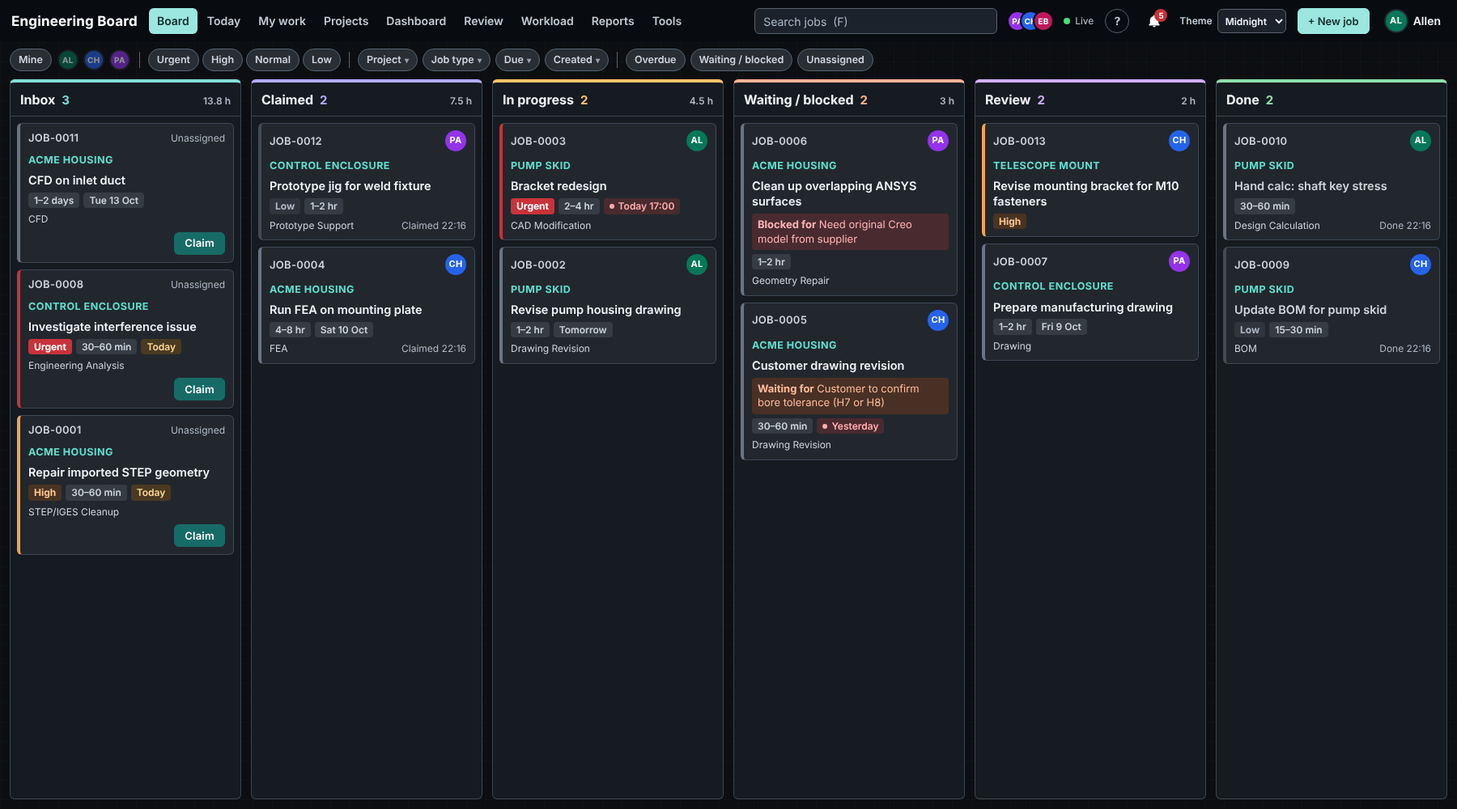
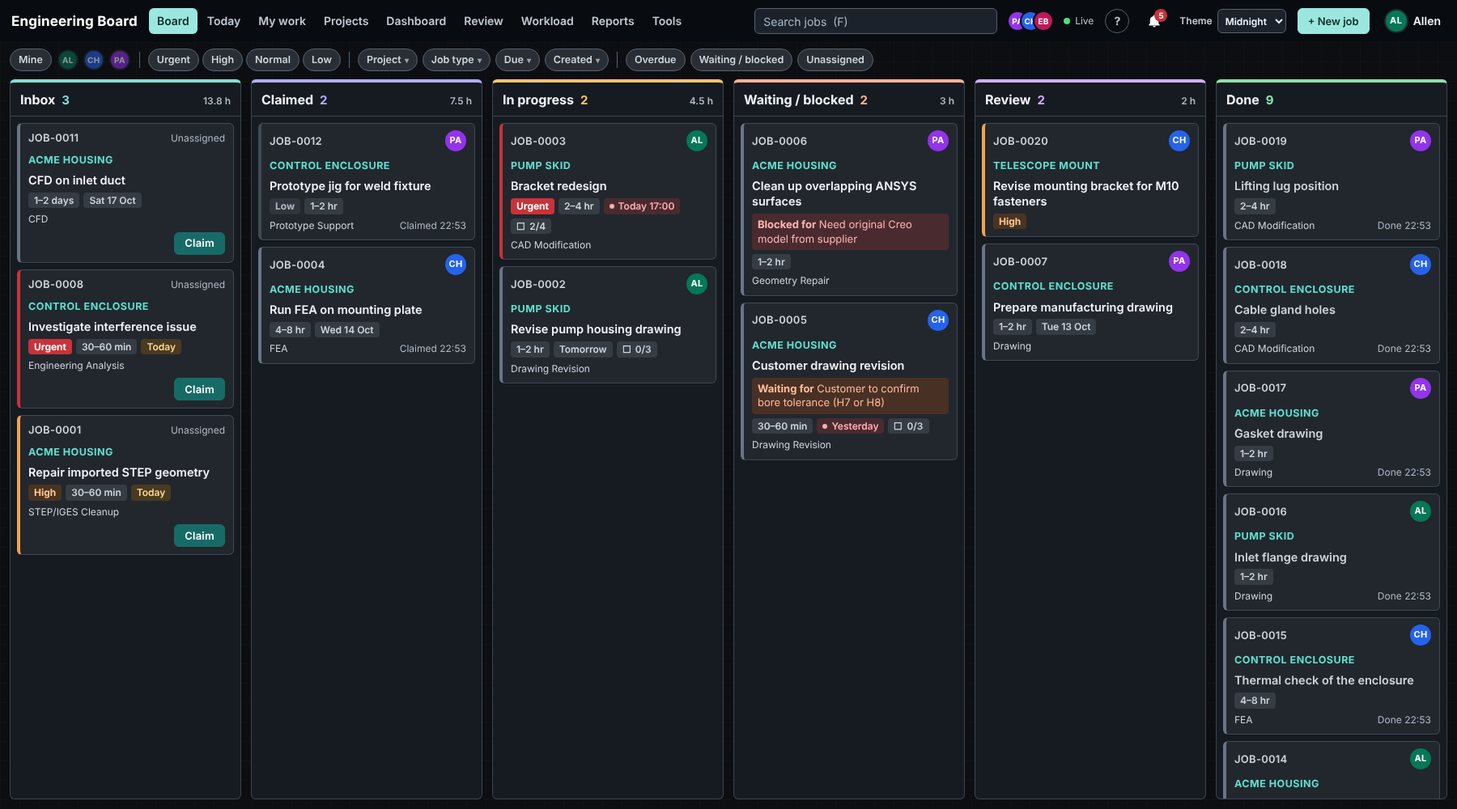
Release 1.7.0: version, README and screenshots
Bump to 1.7.0, re-shoot every README screenshot and add pictures of Health,
release checklists, the drawing register, estimates, the weekly summary,
procurement and the PDF stamp; README text, HANDOFF notes, claim released.

Claude-Session: https://claude.ai/code/session_01ETdD34XJ1VLpe689S7wBTy

diff --git a/server/src/app.ts b/server/src/app.ts
@@ -129,7 +129,7 @@ import { jobsNeedingSync, markSyncPending, revisionLog, settleSyncs, syncProject
 /** Default maximum PDF upload for drawing review (merged signed scans can be large). */
 export const DEFAULT_REVIEW_UPLOAD_MAX_MB = 200;
 
-export const APP_VERSION = '1.6.0';
+export const APP_VERSION = '1.7.0';
 
 export interface AppOptions {
   dbPath: string;

diff --git a/README.md b/README.md
@@ -2,13 +2,13 @@
 
 ### The workboard for the mechanical design team
 
-*Catalogue edition, version 1.6.0*
+*Catalogue edition, version 1.7.0*
 
 One shared board for every design job: who is on it, what it is waiting for, when it is due and how it ended. It runs on a single PC on the office network. Everyone else opens it in a web browser.
 
 ![The board: six columns from Inbox to Done, with the demo jobs](assets/screenshots/board.png)
 
-*Every picture in this file is a real screenshot of version 1.5.0 running with its demo data, taken in Chromium by `scripts/screenshots.mjs`.*
+*Every picture in this file is a real screenshot of version 1.7.0 running with its demo data, taken in Chromium by `scripts/screenshots.mjs`.*
 
 | | |
 |---|---|
@@ -23,11 +23,11 @@ One shared board for every design job: who is on it, what it is waiting for, whe
 
 | Section | What you will find |
 |---|---|
-| [A. The pages](#a-the-pages) | Ten pages, each with its shortcut key |
+| [A. The pages](#a-the-pages) | Every page, with its shortcut key |
 | [B. The job record](#b-the-job-record) | Every field a job carries, and how a job moves |
 | [C. Working together](#c-working-together) | Claiming, live updates, edit merging, notifications |
 | [D. Finding things](#d-finding-things) | Search, filters, export |
-| [E. Administration](#e-administration) | Team, roles, tools data, import, backups, restore, archive |
+| [E. Administration](#e-administration) | Health, team, roles, release checklists, tools data, import, backups, restore, archive |
 | [F. Appearance](#f-appearance) | Three themes, keyboard, phone and tablet |
 | [G. Editions and installation](#g-editions-and-installation) | Windows, Linux, Docker |
 | [H. Specifications](#h-specifications) | Settings, limits, checks |
@@ -43,17 +43,20 @@ Every page has a one-key shortcut. Press <kbd>?</kbd> anywhere for the full list
 
 | Item | Page | Key | What it shows | Use it when |
 |---|---|---|---|---|
-| **A1** | **Board** | <kbd>B</kbd> | Six columns: Inbox, Claimed, In progress, Waiting / blocked, Review, Done. Cards show the job number, title, owner, priority, due date and estimate. | You want to see everything at once and move work along. |
+| **A1** | **Board** | <kbd>B</kbd> | Six columns: Inbox, Claimed, In progress, Waiting / blocked, Review, Done. Cards show the job number, title, owner, priority, due date, estimate and, where the job type has one, how much of the release checklist is ticked (☐ 2/4). | You want to see everything at once and move work along. |
 | **A2** | **Today** | <kbd>T</kbd> | Urgent, overdue, due today, unclaimed, being worked on, waiting, ready for review, finished since yesterday. | You open the board first thing in the morning. |
 | **A3** | **My work** | <kbd>M</kbd> | One engineer's open jobs, in that engineer's own order. Any engineer's list can be viewed. | You are deciding what to do next. |
 | **A4** | **Dashboard** | <kbd>D</kbd> | Six counts (unclaimed, in progress, waiting or blocked, due today, overdue, done today) and recent team activity. | You want the state of the team in ten seconds. |
 | **A5** | **Workload** | <kbd>W</kbd> | Estimated hours per engineer for today, the next 3 days or this week, against an 8-hour reference day. Jobs with no estimate are counted, not guessed. | You are planning who can take more. |
-| **A6** | **Reports** | <kbd>R</kbd> | Jobs completed per day, per engineer and per job type, plus how long jobs take. This and last week, this and last month, last 30 days. | You need numbers for a review meeting. |
+| **A6** | **Reports** | <kbd>R</kbd> | Jobs completed per day, per engineer and per job type, how long jobs take, and **estimates against actual time**: how many finished jobs took about what was estimated, longer or shorter, by job type and by person. This and last week, this and last month, last 30 days. | You need numbers for a review meeting, or want better estimates. |
 | **A7** | **Team activity** | name menu | Every change to every job, newest first. History cannot be edited or deleted. | You want to know who did what, and when. |
 | **A8** | **Drawing review** | <kbd>V</kbd> | Jobs with drawings in board review; a workspace per job with the signed reference and the submitted drawing side by side (independent page, zoom and rotation), revision notes, comments, pass or return, handover and signature. | You check drawings before they are printed and signed. |
 | **A9** | **Projects** | <kbd>P</kbd> | Every project with its open and total jobs, and all of a project's jobs. Projects are added by the team when their first job comes in; none are preset. | You want everything for one project, or to add a new one. |
 | **A10** | **Tools** | <kbd>O</kbd> | Calculators for the team. First: the **sheet calculator**, the team's Sheet Requirement Calculator workbook as a page: per component (material, length, width, number) the parts per sheet in a straight grid with kerf and edge margin, the sheets to buy, parts on the last sheet, utilisation and waste, with the cutting layout drawn to scale. Materials and stock sizes are kept under Admin → Tools. | You are ordering sheet for a job. |
 | **A11** | **PDF tools** | <kbd>O</kbd> → PDF tools | The team's PDF scripts, one tab each: **Stamp** (a diagonal mark across every page, with a live preview of the first page while you adjust text, size, angle, opacity, position and colour), **Negative** (a vector PDF's colour negative, kept vector), **Combine by size** (A4 and A3 files merged into one PDF each) and **Word to PDF** (through Microsoft Word on the host PC). The first three run in your browser; results download singly or as one zip. | You are preparing drawings and documents to send out. |
+| **A12** | **Drawing register** | <kbd>G</kbd>, or Review → Drawing register | Every drawing number that has been through board review, across all jobs: its latest signed revision (when, by whom, which job, the reviewed PDF), what is in review for it now, and its full history. Filters for signed, in review and never signed, by project or text. | Someone asks "what is the latest signed revision of BRK-023, and where is it?" |
+| **A13** | **Weekly summary** | Reports → Weekly summary | One printable A4 page for the review meeting: the week's finished jobs by project and by person, and as of now what is overdue, what is waiting and on what, what is due next week, urgent work nobody has, and drawing review. Week by week. | You prepare the weekly review meeting. |
+| **A14** | **Procurement** | Projects → a project → Procurement | The project's inventory and procurement list: one **master list** typed once (discipline, category, means, final size / spec, quantity, notes), the **assembly checklist** (components and tooling per discipline), **pending procurement**, and a **log** of when each item came into stock and who marked it. Copy another project's list to start; export to Excel. | You are buying and making the parts for a build. |
 
 | | |
 |---|---|
@@ -61,7 +64,7 @@ Every page has a one-key shortcut. Press <kbd>?</kbd> anywhere for the full list
 | **A2 Today** | **A4 Dashboard** |
 | ![Workload: estimated hours per engineer against the 8-hour reference line](assets/screenshots/workload.png) | ![Reports: completed per day, per engineer and per job type](assets/screenshots/reports.png) |
 | **A5 Workload** | **A6 Reports** |
-| ![A job opened from the board: its project in bold above the title on every card, and every field in the side panel, with Copy and Go to location beside the file path](assets/screenshots/job-panel.png) | ![My work: one engineer's open jobs in their own order](assets/screenshots/my-work.png) |
+| ![A job opened from the board: its release checklist at the top with two of four items ticked, its project in bold above the title on every card, and every field in the side panel](assets/screenshots/job-panel.png) | ![My work: one engineer's open jobs in their own order](assets/screenshots/my-work.png) |
 | **A1 Board with a job open** | **A3 My work** |
 | ![Projects: every project with its open and total jobs, and all the jobs of the chosen project](assets/screenshots/projects.png) | ![New job: a title and its project, with "+ Add a project…" for a new one](assets/screenshots/new-job.png) |
 | **A9 Projects** | **New job, with its project** |
@@ -74,9 +77,31 @@ Every page has a one-key shortcut. Press <kbd>?</kbd> anywhere for the full list
 
 ![The cutting layout: sheet 3 of 3 drawn to scale, 16 across × 12 down, parts numbered, unused slots in grey](assets/screenshots/tools-layout.png)
 
+**A11 PDF tools.** The stamp with its live preview: the first page of the first file, stamped as it will be written, redrawn as each setting changes.
+
+![PDF tools: two drawings chosen, the stamp settings, and the live preview of the first page](assets/screenshots/tools-pdf.png)
+
+**A12 Drawing register.** One row per drawing number across jobs, here with SUP-011's history open: Rev A, signed by the reviewer, with its revision notes and the reviewed PDF. BRK-023 Rev C is still in review.
+
+![Drawing register: each drawing number with its latest signed revision, what is in review now, and one drawing's history](assets/screenshots/drawing-register.png)
+
+**A6 Reports: estimates against actual time.** Finished jobs whose actual time fell inside the estimate chosen, took longer or shorter, by job type and by person. The job panel shows what a type of job usually takes under its estimate, and asks for the time when you finish your own job.
+
+![Estimates against actual time: within, longer and shorter by job type and by person, with the middle job's difference](assets/screenshots/reports-estimates.png)
+
+**A13 Weekly summary.** Printed or saved as a PDF, it is the sheet alone on one A4 page.
+
+![Weekly summary: the week's numbers, finished jobs by project, the team, overdue and waiting jobs](assets/screenshots/weekly-summary.png)
+
+**A14 Procurement.** The master list (every cell saves as you leave it; **In stock** records the date, time and who) and the assembly checklist that follows from it.
+
+![Procurement master list: items with discipline, category, means, final size or spec, quantity, in-stock time and notes](assets/screenshots/procurement.png)
+
+![Assembly checklist: components and tooling per discipline, in stock or still to come](assets/screenshots/procurement-checklist.png)
+
 **A8 Drawing review.** The queue, and the workspace with the signed reference on the left and the submitted drawing on the right, each with its own page, zoom and rotation. The open comment blocks **Pass board review** until it is resolved.
 
-![Submitting drawings for board review: the signed reference scan, one single-page PDF per drawing, its number, type and change notes](assets/screenshots/review-submit.png)
+![Submitting drawings for board review: the signed reference scan, one single-page PDF per drawing, its number, revision, type and change notes](assets/screenshots/review-submit.png)
 
 ![Drawing review queue: counts, tabs, and a preview of the submission](assets/screenshots/review-queue.png)
 
@@ -95,7 +120,9 @@ A job needs a title and a project. Everything else can be added as the job devel
 | **Project** | Required for every new job. Chosen from the team's project list, or added there and then (**+ Add a project…**). Shown above the title on every card and job row in its own colour, so the project is read first. A job can move to another project; jobs from before 1.4.0 show as *No project* until one is picked. |
 | **Description** and **notes** | Free text. Edits by two people are merged, see C3. |
 | **Priority** | Urgent, high, normal or low. An urgent job notifies everyone. |
-| **Estimate** | Eight buckets from under 15 minutes to over 2 days. |
+| **Estimate** | Eight buckets from under 15 minutes to over 2 days. Once three jobs of a type have recorded their time, the panel says what that type usually takes. |
+| **Actual time** | Typed as you'd say it: `90`, `1.5h`, `3h 30m`, `1d`. Shown against the estimate (within, longer, shorter) and counted in Reports. Finishing your own job without one asks once. |
+| **Release checklist** | When the admin gives the job type one (E13): the items to tick before Review or Done, each tick with its name and time, kept in the history. |
 | **Due date** | Optional. A date alone becomes overdue after local midnight; a time can be added. |
 | **Owner** | One person whose role may hold jobs (engineers out of the box; see E10), or nobody yet. |
 | **Requester** | Who asked for the work. |
@@ -115,7 +142,7 @@ A job needs a title and a project. Everything else can be added as the job devel
                   Waiting / blocked  (says what it is waiting for)
 ```
 
-Drag a card, press <kbd>Shift</kbd>+<kbd>←</kbd> / <kbd>→</kbd>, or use the right-click menu. A dropped card can be undone from the message that appears. Done jobs leave the board after 7 days and stay searchable for ever. Jobs are never deleted: finished ones can be **archived**, and **restored** from their panel.
+Drag a card, press <kbd>Shift</kbd>+<kbd>←</kbd> / <kbd>→</kbd>, or use the right-click menu. A job whose type has a release checklist can't go into Review or Done until it is ticked (or, if the admin chose so, the board asks first). A dropped card can be undone from the message that appears. Done jobs leave the board after 7 days and stay searchable for ever. Jobs are never deleted: finished ones can be **archived**, and **restored** from their panel.
 
 ### B3. Who may do what
 
@@ -153,7 +180,7 @@ Drawing review: engineers submit drawings, hand each one to one or more reviewer
 | **D1** | **Search** | <kbd>F</kbd> or <kbd>/</kbd>. Matches any part of a word in the job number, title, description, notes, file location, reference and tags: `1042`, `housing` and `\\fileserver\proj` all work. Finished and archived jobs are included. |
 | **D2** | **Filters** | On the board: person, priority, job type, tag, due date, created date. Remembered across reloads. |
 | **D3** | **Export to CSV** | What a search shows, ready for Excel. Opens correctly with accents and guards against formula injection. |
-| **D4** | **Full export** | **Admin → Export:** every job as CSV, or everything with full history as JSON. |
+| **D4** | **Full export** | **Admin → Export:** every job as CSV, or everything with full history as JSON, procurement lists included. |
 
 ![Search for "housing": matches any part of a word, with the same filters as the board and an Export to CSV link](assets/screenshots/search.png)
 
@@ -164,7 +191,7 @@ Behind the admin PIN, unlocked per browser for 12 hours. The PIN starts as `1234
 | Item | Task | Notes |
 |---|---|---|
 | **E1** | **Team** | Add people, set engineer, manager or reviewer, choose a badge colour, mark who sees the Admin menu, deactivate leavers, reset a forgotten password. People are never deleted, so history keeps its authors. |
-| **E2** | **Job types and tags** | Reorder, retire and bring back job types. Rename tags; renaming to an existing tag merges them. |
+| **E2** | **Job types and tags** | Reorder, retire and bring back job types, and give each a release checklist (E13). Rename tags; renaming to an existing tag merges them. |
 | **E3** | **Import from Excel** | Save as CSV UTF-8, choose the file, read the preview, then import. Column names are recognised automatically. Nothing is created until you confirm; rows with errors are skipped and explained; a backup is taken first; the whole file goes in or none of it; importing the same file twice is caught. |
 | **E4** | **Backups** | Automatic: daily, and before every import, restore and upgrade. Kept 30 days, newest 7 always. Each is a complete, verified SQLite file in `data\backups`. Point `backupDir` at a network share or OneDrive so a dead PC does not take them with it. |
 | **E5** | **Restore** | From the list, or from an uploaded `.db` file (64 MiB by default, adjustable). The file is checked and prepared first; if anything fails the original data is put back. The current data is backed up before every restore, so a restore can itself be undone. Nobody is signed out. |
@@ -174,12 +201,18 @@ Behind the admin PIN, unlocked per browser for 12 hours. The PIN starts as `1234
 | **E9** | **Passwords** | Everyone signs in with their own password, created at their first sign-in and changeable from the account menu. Admins reset a forgotten one (the person creates a new one next time). If everyone is locked out, an empty file named `RESET-PASSWORDS` next to `start.bat` clears them all on the next start. |
 | **E10** | **Roles** | What engineers, managers and reviewers may do with jobs: create, claim and be assigned, edit any job (see B3). Shipped rules: engineers everything, managers create and edit, reviewers nothing. Taking *claim* away from a role whose members still hold open jobs is refused until those jobs are reassigned. Board review is separate and unaffected. |
 | **E11** | **Tools data** | The materials and standard sheet sizes behind the sheet calculator (the workbook's Materials sheet: ten materials with its typical sizes, to be replaced with the supplier's real ones), and the defaults for its kerf, edge margin and rotation inputs. Materials are retired, never deleted. |
+| **E12** | **Health** | The host PC at a glance, each check OK, Check or Fix now: backups being made (and a failed daily backup, which used to show only in the console window), backups on another disk than the board, free disk space, the database's own check, and the admin PIN. Disk bars, versions, uptime and sizes below. A line at the top of every other Admin page links here while anything needs attention. |
+| **E13** | **Release checklists** | Under **Job types → Checklist**: per job type, what must be ticked before a job goes to Review or Done (title block filled in, BOM checked…). Per type, refuse the move until all is ticked (the default) or ask first. Items are retired, never deleted. Demo data and Excel imports are not held back by them. |
 
 ![The sign-in screen: pick your name, then enter or create your password; the theme can be chosen before signing in](assets/screenshots/sign-in.png)
 
 ![Admin → Team: role, badge colour, admin menu, active, and password reset per person](assets/screenshots/admin.png)
 
 ![Admin → Tools: the materials and standard sheet sizes behind the sheet calculator](assets/screenshots/admin-tools.png)
+
+![Admin → Health: backups, the backup disk, free space, the database check and the PIN, with disk space and details below](assets/screenshots/admin-health.png)
+
+![Admin → Job types: CAD Modification's release checklist open, four items, refusing Review and Done until all are ticked](assets/screenshots/admin-checklists.png)
 
 ## F. Appearance
 
@@ -258,9 +291,9 @@ Copy `config.example.json` to `config.json` next to `start.bat`, edit it, restar
 | **History** | Append-only, enforced by database triggers. Jobs cannot be deleted. |
 | **Concurrency** | Version-checked edits, atomic claiming, idempotent creation. |
 | **Search** | SQLite full-text with trigram matching, so any three letters match. |
-| **Upgrades** | Schema version 10. A backup is taken before a new version changes the database. A board refuses to start on data written by a newer version. |
+| **Upgrades** | Schema version 13. A backup is taken before a new version changes the database. A board refuses to start on data written by a newer version. |
 | **Network** | LAN only; no outbound traffic. Name picker plus a password (scrypt hash) and a signed cookie bound to it; admin behind a hashed PIN; five wrong passwords pause sign-in for 30 seconds. |
-| **Checked by** | 198 backend tests, 39 browser tests, 15 package checks, and a typecheck. The sheet calculator is checked against the workbook's own example. |
+| **Checked by** | 254 backend tests, 47 browser tests, 15 package checks, and a typecheck. Every database upgrade is tested from the version before it. The sheet calculator is checked against the workbook's own example. |
 
 ## J. Documentation
 
@@ -278,6 +311,7 @@ Copy `config.example.json` to `config.json` next to `start.bat`, edit it, restar
 
 | Version | What it brought |
 |---|---|
+| **1.7.0** | **Admin → Health** for the host PC. A **drawing register** across jobs, with a **revision** on every drawing. **Estimates against actual time** in Reports and the job panel. A printable **weekly summary**. **Release checklists** per job type, guarding Review and Done. A **procurement tracker** per project from the team's inventory workbook. Fixed: a reviewer recording a job's last signature was refused. |
 | **1.6.0** | PDF tools on the Tools page: Stamp with a live preview, Negative, Combine by size and Word to PDF, from the team's four scripts. |
 | **1.5.0** | The project name stands out on cards and job rows. Admin-set role capabilities (create, claim and be assigned, edit any job) for engineers, managers and reviewers, leaving board review untouched. **Go to location** beside a job's file path. A **Tools** page with the team's *Sheet Requirement Calculator* workbook as a page, formula for formula, with its cutting layout drawn to scale; its materials and sheet sizes editable by the admin. |
 | **1.4.0** | Projects: every job belongs to a project, chosen or added from the New job form; a Projects page with each project's jobs; project filter, search, card and job-panel display; Project column in import and export. No preset list: projects are added as they are needed. |
@@ -320,7 +354,9 @@ server/src/
   domain/        tickets, rank, search, views, reports, users, job types, auth,
                  permissions, projects, tools, notifications, presence,
                  backup, import and export (transfer), drawing review
-                 (reviews, reviewStore, projectFolder, pdf)
+                 (reviews, reviewStore, projectFolder, pdf, register),
+                 health, estimates, weekly, checklists, procurement,
+                 wordToPdf
 server/test/     node:test suites against a real server and a real SQLite file
 e2e/             browser tests and the build and package check
 scripts/         build, package, lib (markdown, zip, guides), windows/, linux/

diff --git a/HANDOFF.md b/HANDOFF.md
@@ -7,7 +7,7 @@ Add a row when you start working, remove it when you finish.
 
 | Agent | Branch | Files / areas being touched | Started (IST) |
 |---|---|---|---|
-| Claude | `claude/host-health`, then stacked `claude/drawing-register`, `claude/estimate-accuracy`, `claude/weekly-summary`, `claude/release-checklists`, `claude/procurement` (1.7.0) | Admin (health, checklists), Reports, a new Drawings page, a weekly summary, job checklists, a procurement page; migrations 11+; `server/src/{app.ts,domain/}`, `web/src/{App.tsx,views/,components/TicketPanel.tsx}`, `shared/src/`, docs, README | 2026-10-11 21:40 |
+| _(none)_ | | | |
 
 ## Open questions
 Questions for Christin or another agent. Mark answered ones with the answer and date, and move them to "Resolved".
@@ -19,7 +19,7 @@ _(none)_
 - [x] The application source was not in this repo yet. **Answer:** Claude imported the full source and its history (phases 2 to 7) on branch `claude/import-app-source`, 2026-10-02.
 
 ## Notes for the next agent
-- **Where the project stands:** 1.5.0 (prominent project names, role capabilities #31, Go to location, Tools and the sheet calculator #32) is on main, with the README and screenshots. Branch `ccr-76842e6e-xbo8lh` proposes 1.6.0 (PDF tools, decision #33) for Christin's review.
+- **Where the project stands:** 1.7.0 is proposed as eight stacked PRs (#17 to #24), to be merged in order: Health (#34), the last-signature fix, the drawing register and revisions (#35), estimates (#36), the weekly summary (#37), release checklists (#38), procurement (#39), then the release (version, README, screenshots). Schema 13.
 - **Releases:** `npm run package` writes `dist/EngineeringBoard-<version>.zip`. Bump `version` in `package.json` and `APP_VERSION` in `server/src/app.ts` together; `check:build` fails if they differ.
 - **README screenshots:** `assets/screenshots/` is written by `node scripts/screenshots.mjs` (build first; set `PLAYWRIGHT_CHROMIUM_EXECUTABLE_PATH` if Playwright's own Chromium isn't installed). Re-run it after visible changes. It also shoots the sheet calculator (the workbook's example plus a second part), its cutting layout, Admin → Roles and Admin → Tools; every PNG in that folder is referenced from the README, so remove a shot from both places together.
 - **Guides:** edit the Markdown in `docs/`; the build turns them into the pages at `/guides/` and in the zip. `check:build` fails on a broken link between guides.
@@ -43,5 +43,12 @@ _(none)_
 - **Role capabilities (1.5.0):** decision #31. The setting is read with `getPermissions(ctx)` (`server/src/domain/permissions.ts`) and served in `/api/meta`; the rules live in `shared/src/constants.ts`: `allows(perms, user, cap)`, `hasBoardAccess(perms, user)` (board routes, nav, admin) and `canChangeJob(perms, user, ticket)`. **Keep `seesWholeBoard` for review visibility and `canReview`/`requireEngineer` for review actions**: they are role-based on purpose, so the setting never touches board review. Server: `worker(method, path, handler, cap?)` checks a capability on a route; per-job checks (`requireChange`) are in `domain/tickets.ts`. Web: `can(cap)` and `canChange(t)` on the app context, `workers` replaces the old `engineers` list, the job panel wraps its editable parts in `fieldset.panel-editable[disabled]`, and `lib/actions.ts` gets the rules through `setActionPermissions`. Tests change the rules with `PUT /api/admin/permissions` and put the defaults back at the end of each case.
 - **Tools (1.5.0):** decision #32. The reference workbook is `docs/tools/Sheet_Requirement_Calculator.xlsx`; keep the sums in `shared/src/sheets.ts` (`fitOnSize`, `gridFit`, `calculateSheets`) equal to its Calculator and Layout sheets (the comment at the top maps each formula to its cell), and `server/test/tools.test.ts` checks the workbook's own example. Data in `server/src/domain/tools.ts` (migration 10, `seedTools` runs once when there are no materials, with the workbook's Materials sheet), served by `GET /api/tools/sheet`; the page in `web/src/views/Tools.tsx` (add new tools to its `TOOLS` list and give them their own component), the admin side in `web/src/views/admin/ToolsData.tsx`. The component list and the three inputs are per browser (`localStorage`, key `engineering-board-sheet-calc`).
 - **PDF tools (1.6.0):** decision #33. Browser code in `web/src/lib/pdf/` (`stamp.ts`, `negative.ts`, `group.ts`, `zip.ts`) on pdf-lib, imported dynamically so esbuild (`splitting: true` in `scripts/build.mjs`; the theme script is built separately as a plain script) puts pdf-lib in its own chunk; keep those modules free of DOM APIs, since `server/test/pdf-tools.test.ts` runs them in Node. The page is `web/src/views/tools/PdfTools.tsx` (tabs; the stamp preview stamps `firstPageOnly()` with pdf-lib and draws it with pdf.js through `openPdfBytes()` in `web/src/lib/pdf.ts`). Word to PDF: `server/src/domain/wordToPdf.ts` (PowerShell + Word COM, `WordQueue` serialises; `probeWord()` once per start) and the raw-request branch in `app.ts` that streams the upload with `streamFileUpload()` before the route handler; tests inject `wordToPdf: { convert, status }` through `AppOptions`. The source scripts are not in the repo (they were uploads); the ports are commented against them.
+- **Health (1.7.0):** decision #34, `server/src/domain/health.ts`, read on request. The only state is `HealthState` in `app.ts` (start time, last daily-backup error, cleared by any backup that works). `app.runMaintenance()` runs the hourly daily-backup check for tests. Backup age comes from the date in the file name, not the file's mtime, so the test clock works.
+- **Drawing register and revisions (1.7.0):** decision #35, `server/src/domain/register.ts` is a read-only view over the review tables (no copy of data). `review_drawings.revision` (migration 11) is stored in capitals by `cleanRevision`; a resubmission keeps it unless `revision` is sent. Register routes use `board(...)`, so reviewers get 403.
+- **Moving jobs (1.7.0):** `moveTicket(ctx, actor, id, input, opts)` has two escape hatches: `byReview` (the board's own move after the last signature: no role check, no checklist) and `skipChecklist` (demo data and Excel imports bring work in as it is). Anything new that moves jobs on the user's behalf should use neither.
+- **Release checklists (1.7.0):** decision #38, `server/src/domain/checklists.ts` (lists and the rule), ticking in `tickets.ts` (`setCheck`, needs the job-change permission). Every `Ticket` carries `checklist: {done, total, mode} | null`; a reviewer's blanked ticket sets it to null. `clearDemo` deletes `ticket_checks` of demo jobs.
+- **Estimates and the weekly summary (1.7.0):** decisions #36 and #37. `shared/src/estimates.ts` has `parseDuration` / `formatDuration` / `compareToEstimate`, used by both sides. `server/src/domain/weekly.ts` counts overdue and waiting in calendar days. The weekly page prints through a print stylesheet only (no PDF library).
+- **Procurement (1.7.0):** decision #39, `server/src/domain/procurement.ts`; items are never deleted (`removed_at`), the log is append-only (triggers, except for demo projects). Events are `{type:'procurement', id: projectId}`. `clearDemo` keeps a demo project that has procurement items. Built without the workbook itself: compare with it when Christin shares it.
+- **Screenshots (1.7.0):** `scripts/screenshots.mjs` sets up its own sample data (finished jobs with times, two checklists, a procurement list). Make the finished jobs *before* adding checklists, or the checklist refuses their move to Done.
 - **Go to location (1.5.0):** `folderUrl()` in `web/src/components/TicketPanel.tsx` turns a UNC or drive path into a `file:` link. Browsers block it unless IT allows folder links; `docs/FOR-IT.md` has the Edge policy. Don't promise it works everywhere.
 - **Projects (1.4.0):** decision #30. `server/src/domain/projects.ts`; one row per job in `ticket_projects` (migration 9), so `tickets` is unchanged. Board-created jobs must name a project (`createBoardTicketSchema`, used by `POST /api/tickets`); imports use `createTicketSchema`, where it's optional. Tests: `Client.create()` in `server/test/helpers.ts` puts jobs in a "Test project" unless given one, and `Client.testProject()` returns its id; browser tests pick a demo project (`pickProject()` in `e2e/board.e2e.mjs`) or create one in `before()`. Anything that creates jobs through the API must send `project_id`. Reviewers get 403 on `/api/projects` and see `project_id: null` (#29).

diff --git a/CHANGELOG.md b/CHANGELOG.md
@@ -298,3 +298,13 @@
 - **Decisions affected:** new decision #39. #29 holds (reviewers get 403). No runtime dependency (#1).
 - **Validation:** On Node 22.22.0: typecheck; 254 backend tests (7 new: the master list with defaults and refusals; in stock stamped with time and person, repeats ignored, back to pending, log newest first; version-checked edits and removal kept in the log; copying another list as pending without notes, twice adding nothing, not onto itself; the CSV with its BOM and quoting; the JSON export and reviewers refused; demo removal keeping a project with a list; plus the upgrade test through migration 13); build; 15 package checks; 47 browser tests (1 new: from a project, two items typed, a note saved on leaving the cell, in stock from the master list, the checklist's RF components and mechanical tooling, Mark in stock emptying the pending list, the log with the person, the CSV link). Every tab checked by eye in Light and Charcoal.
 - **Follow-ups / open issues:** compare with the real workbook when convenient; the columns and the components / tooling split are as the workbook was described, and can follow it exactly once seen.
+
+### 2026-10-12 05:15 IST | Claude | branch: claude/release-1.7.0
+- **What:** Release 1.7.0: version bumped (`package.json`, `APP_VERSION`), README and every screenshot brought up to date, HANDOFF notes, claim released.
+  - **Screenshots** re-shot on 1.7.0 with `node scripts/screenshots.mjs` (the caption still said 1.5.0). New: Admin → Health, Admin → Job types with a release checklist, the drawing register with a history open, estimates against actual time, the weekly summary, the procurement master list and assembly checklist, and the PDF tools' stamp preview (1.6.0 had no picture). The job panel and cards now show a release checklist, and the submit form a revision. The script builds its own sample data for these.
+  - **README:** pages A12–A14 (drawing register, weekly summary, procurement), A1 and A6 updated, the new pictures with captions, B1 fields (estimate hint, actual time, release checklist), B2 (the checklist guards Review and Done), E2/E12/E13 (job types, Health, release checklists), D4, schema 13, 254 backend and 47 browser tests, the 1.7.0 release line, the code layout.
+- **Why:** The last of the 1.7.0 series Christin asked for on 2026-10-11, shipped as one update.
+- **Files:** `package.json`, `server/src/app.ts` (`APP_VERSION`), `README.md`, `assets/screenshots/*.png` (all re-shot; new `admin-health`, `admin-checklists`, `drawing-register`, `reports-estimates`, `weekly-summary`, `procurement`, `procurement-checklist`, `tools-pdf`), `scripts/screenshots.mjs`, `HANDOFF.md`, `CHANGELOG.md`
+- **Decisions affected:** none.
+- **Validation:** On Node 22.22.0: typecheck; 254 backend tests; build; 15 package checks; 47 browser tests; `npm run package` writes `dist/EngineeringBoard-1.7.0.zip` with no data, config or `node.exe`. Every new screenshot checked by eye; every image the README links exists and every PNG is linked.
+- **Follow-ups / open issues:** after updating, the admin adds release checklists per job type (none are preset) and should check Admin → Health for the backup disk. The stamp tool's default placement (from the stamp script) runs off the top edge of a landscape sheet; the README picture moves it down. Compare the procurement tracker with the real workbook when convenient.
